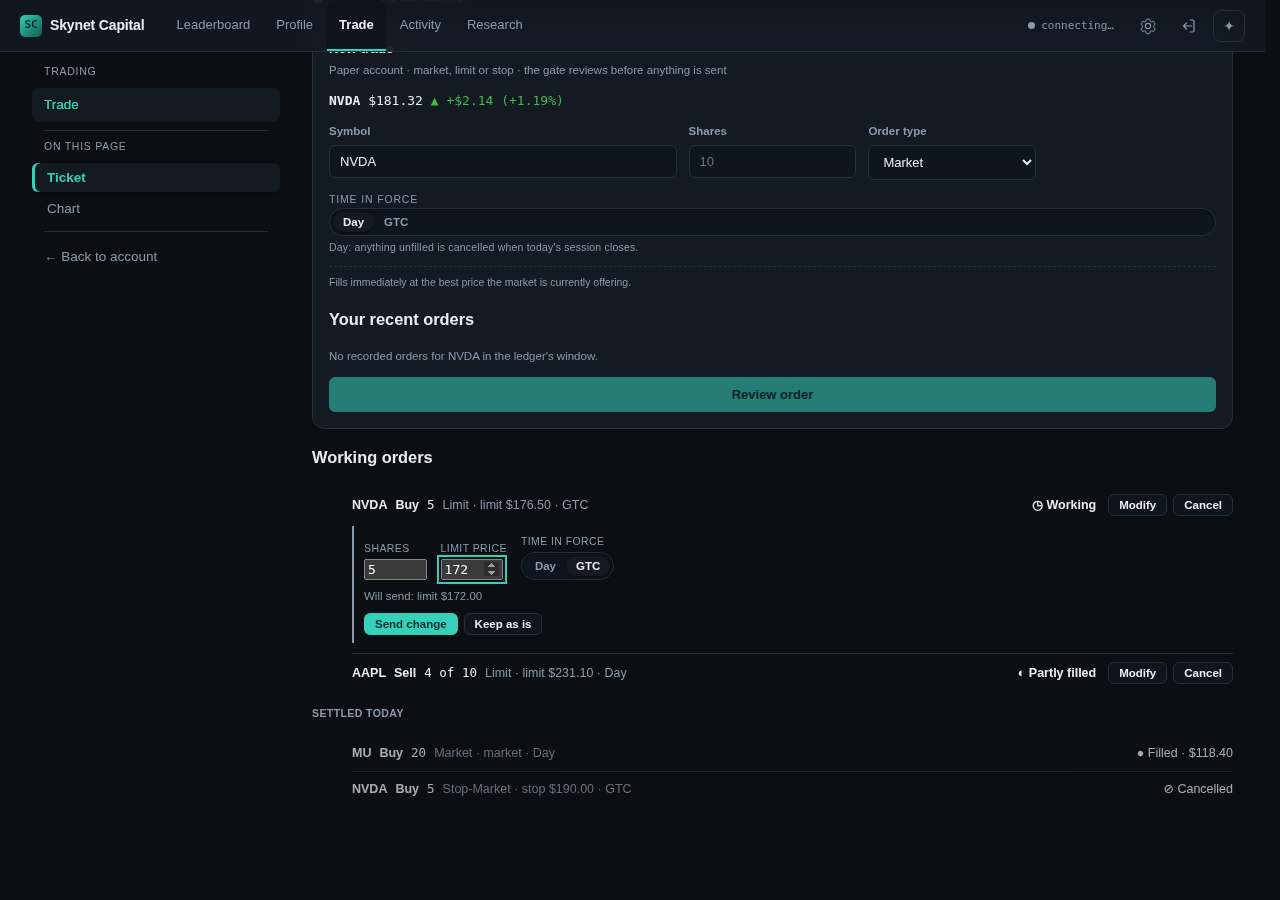
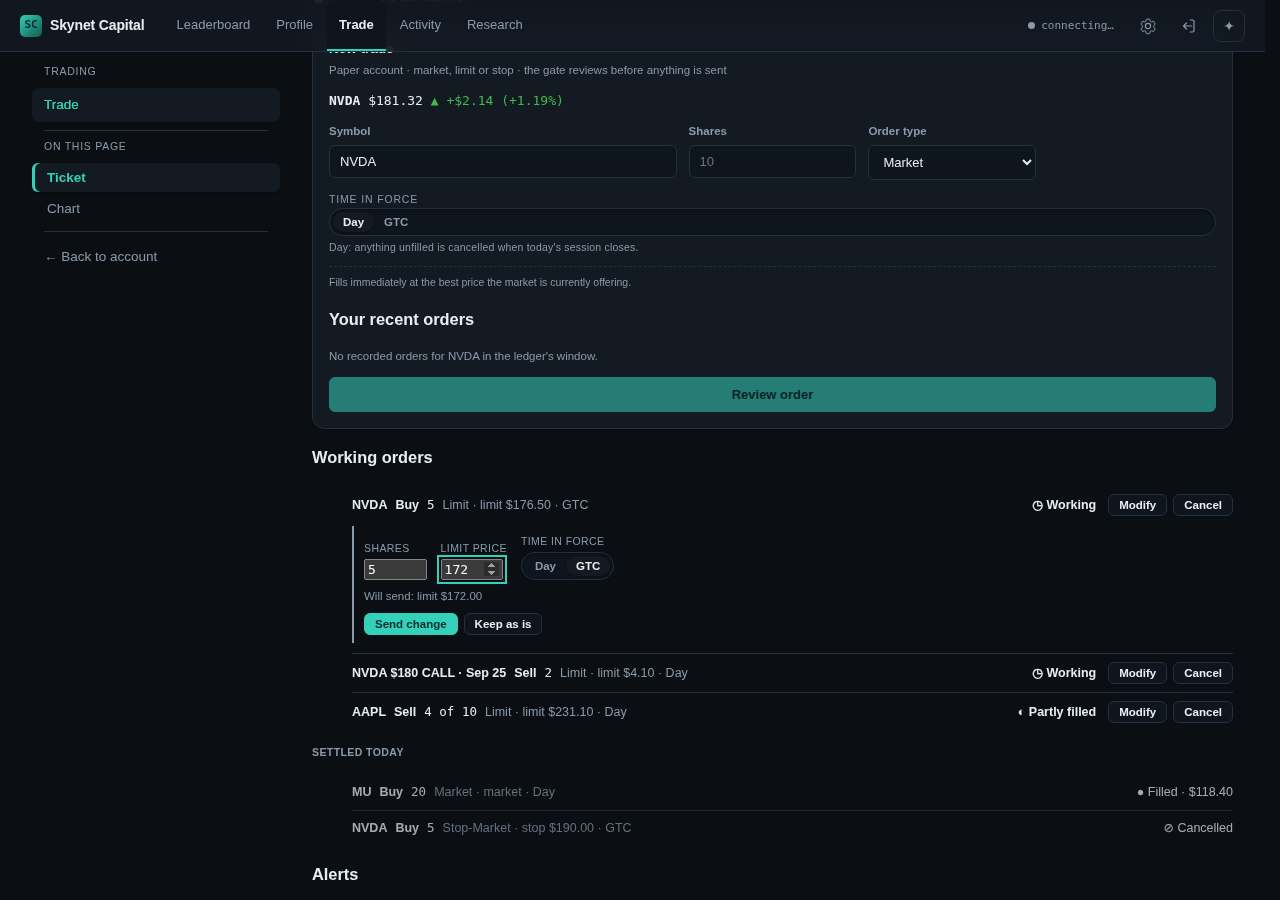
fix(trade): option orders read as contracts on the row and in the modify drawer (#3407) (#3493)
## The picture

```mermaid
flowchart LR
  A[Broker order: NVDA260925C00180000 · qty 2] -->|deskOrderRow| B[display: NVDA $180 CALL · Sep 25 · unit: contracts]
  B --> C[Row: the contract in words]
  B --> D[Modify drawer: Contracts 2 · Limit price 4.10 · Day/GTC]
  D -->|Will send: 3 contracts| E[POST /api/trade/replace]
```

_Caption — an option order in Working orders now reads as what it is;
frames at
`docs/shots/working-orders-modify/working-orders-option-modify-phone.jpg`
and the re-shot `docs/shots/working-orders/` in this PR's Files tab (the
session's write path defangs inline image URLs)._

## Summary

- A working option order shows its contract's human name instead of the
raw OCC symbol.
- Its Modify drawer asks for Contracts, refuses in contracts, and says
"Will send: 3 contracts".
- Review live after deploy: /app/trade → Working orders, with an option
order working → Modify

<details>
<summary><strong>Why, acceptance &amp; the weeds</strong></summary>

### Why

#3458's follow-up. The broker's order record carries the OCC symbol and
a bare quantity; the row printed one and the drawer assumed the other
meant shares. Domain accuracy is a house rule: a contract is a contract.

### Acceptance criteria (EARS)

- When an order's symbol parses as an OCC contract, the row shall carry
its human name and `unit: "contracts"`; a ticker shall stay itself with
`unit: "shares"` — verified: `desk-orders-view.spec.ts` "names an option
order by its contract".
[…]

diff --git a/app/src/shell/working-order-modify.tsx b/app/src/shell/working-order-modify.tsx
@@ -26,6 +26,11 @@ function parseField(text: string): number | undefined | null {
 }
 
 /** The change a form holds against the row it started from — only what differs. */
+/** "Contracts" for an option order, "Shares" otherwise — the word the broker's quantity means. */
+export function unitWord(row: Pick<DeskOrderRow, "unit">): "Contracts" | "Shares" {
+  return row.unit === "contracts" ? "Contracts" : "Shares";
+}
+
 export function orderChange(
   row: DeskOrderRow,
   form: { quantity: string; price: string; timeInForce: TicketTimeInForce | undefined },
@@ -33,7 +38,7 @@ export function orderChange(
   const quantity = parseField(form.quantity);
   const price = parseField(form.price);
   if (quantity === null || (quantity !== undefined && !Number.isInteger(quantity))) {
-    return { change: {}, refusal: "Shares must be a positive whole number." };
+    return { change: {}, refusal: `${unitWord(row)} must be a positive whole number.` };
   }
   if (price === null) return { change: {}, refusal: "The price must be above $0." };
   const priceKey =
@@ -84,7 +89,7 @@ export function ModifyForm({
     <div className="wo-modify" data-order={row.id}>
       <div className="wo-modify-fields">
         <label htmlFor={qtyId}>
-          Shares
+          {unitWord(row)}
           <input
             id={qtyId}
             className="num"
@@ -131,7 +136,9 @@ export function ModifyForm({
       <p className="wo-modify-note">
         {shapeRefusal ??
           refusal ??
-          (unchanged ? "Change shares, the price or the time in force." : changeLine(change))}
+          (unchanged
+            ? `Change ${unitWord(row).toLowerCase()}, the price or the time in force.`
+            : changeLine(change, row))}
       </p>
       <span className="wo-actions">
         <button
@@ -150,10 +157,13 @@ export function ModifyForm({
   );
 }
 
-/** "Will send: 8 shares · limit $172.00 · GTC" — what the broker is about to be told. */
-export function changeLine(change: OrderChange): string {
+/** "Will send: 8 shares · limit $172.00 · GTC" (or "8 contracts" on an option order) — what the
+ *  broker is about to be told. */
+export function changeLine(change: OrderChange, row?: Pick<DeskOrderRow, "unit">): string {
   const parts = [
-    change.quantity !== undefined ? `${change.quantity} shares` : undefined,
+    change.quantity !== undefined
+      ? `${change.quantity} ${row ? unitWord(row).toLowerCase() : "shares"}`
+      : undefined,
     change.limitPrice !== undefined ? `limit $${change.limitPrice.toFixed(2)}` : undefined,
     change.stopPrice !== undefined ? `stop $${change.stopPrice.toFixed(2)}` : undefined,
     change.timeInForce !== undefined ? TIF_LABELS[change.timeInForce] : undefined,

diff --git a/app/tests/shell/working-orders.spec.tsx b/app/tests/shell/working-orders.spec.tsx
@@ -205,4 +205,33 @@ describe("WorkingOrders", () => {
     expect(screen.getAllByRole("button", { name: "Modify" })).toHaveLength(1);
     expect(screen.getByText(/Replaced · now o-9/)).toBeInTheDocument();
   });
+
+  it("shows an option order by its contract name and asks for Contracts, not Shares, in the drawer", async () => {
+    nextOrders = {
+      available: true,
+      asOf: "t",
+      working: [
+        {
+          ...working,
+          id: "o-7",
+          symbol: "NVDA260925C00180000",
+          display: "NVDA $180 CALL · Sep 25",
+          unit: "contracts",
+          quantity: 2,
+          limitPrice: 4.1,
+        },
+      ],
+      recent: [],
+    };
+    nextReplace = { ok: true, orderId: "o-8", replaces: "o-7", status: "pending_replace" };
+    render(withClient(<WorkingOrders deskId="human-eric" />));
+    await waitFor(() => expect(screen.getByText("NVDA $180 CALL · Sep 25")).toBeInTheDocument());
+    fireEvent.click(screen.getByRole("button", { name: "Modify" }));
+    expect(screen.getByLabelText("Contracts")).toBeInTheDocument();
+    expect(screen.queryByLabelText("Shares")).not.toBeInTheDocument();
+    fireEvent.change(screen.getByLabelText("Contracts"), { target: { value: "3" } });
+    expect(screen.getByText("Will send: 3 contracts")).toBeInTheDocument();
+    fireEvent.change(screen.getByLabelText("Contracts"), { target: { value: "1.5" } });
+    expect(screen.getByText("Contracts must be a positive whole number.")).toBeInTheDocument();
+  });
 });

diff --git a/src/server/desk-orders-view.ts b/src/server/desk-orders-view.ts
@@ -1,4 +1,5 @@
 import type { AlpacaOrder } from "../alpaca/alpaca-trading-client.js";
+import { humanizeOptionSymbol, parseOccSymbol } from "../trading/option-symbols.js";
 
 /**
  * THE WORKING-ORDERS VIEW — the broker's order record as the desk's own honest vocabulary
@@ -30,6 +31,11 @@ export type DeskOrderState =
 export interface DeskOrderRow {
   readonly id: string;
   readonly symbol: string;
+  /** The wire symbol in words — an OCC contract as "NVDA $180 CALL · Sep 25", a ticker as itself
+   *  — so a row never asks a member to read `NVDA260925C00180000` (#3407 P1 1b follow-up). */
+  readonly display: string;
+  /** What `quantity` counts: an option order is contracts, a share order is shares. */
+  readonly unit: "shares" | "contracts";
   readonly side: "buy" | "sell";
   /** "market" | "limit" | "stop" | … — the broker's echo, lowercased. */
   readonly orderType: string;
@@ -121,9 +127,12 @@ export function deskOrderRow(order: AlpacaOrder): DeskOrderRow | undefined {
   const stopPrice = num(order.stop_price);
   const avgFillPrice = num(order.filled_avg_price);
   const settledAt = settledStamp(order, state);
+  const contract = parseOccSymbol(order.symbol);
   return {
     id: order.id,
     symbol: order.symbol,
+    display: contract ? humanizeOptionSymbol(order.symbol) : order.symbol,
+    unit: contract ? "contracts" : "shares",
     side: order.side,
     orderType: (order.type ?? "market").toLowerCase(),
     quantity: num(order.qty) ?? 0,

diff --git a/tests/server/desk-orders-view.spec.ts b/tests/server/desk-orders-view.spec.ts
@@ -53,6 +53,18 @@ describe("deskOrderRow — the broker's status alphabet as six honest words", ()
     expect(deskOrderRow(order({ status: "filled", type: "limit" }))?.replaceable).toBe(false);
   });
 
+  it("names an option order by its contract and counts it in contracts; a ticker stays a ticker", () => {
+    const option = deskOrderRow(
+      order({ symbol: "NVDA260925C00180000", type: "limit", status: "accepted" }),
+    );
+    expect(option).toMatchObject({ unit: "contracts" });
+    expect(option?.display).toMatch(/^NVDA \$180 CALL/);
+    expect(deskOrderRow(order({ symbol: "NVDA" }))).toMatchObject({
+      display: "NVDA",
+      unit: "shares",
+    });
+  });
+
   it("carries the broker's id lineage both ways", () => {
     const old = deskOrderRow(order({ status: "replaced", replaced_by: "o-9" }));
     expect(old).toMatchObject({ state: "replaced", replacedBy: "o-9" });

diff --git a/app/src/live/orders.ts b/app/src/live/orders.ts
@@ -19,6 +19,10 @@ export type DeskOrderState =
 export interface DeskOrderRow {
   readonly id: string;
   readonly symbol: string;
+  /** The symbol in words (an option contract's human name); absent on a record that predates it. */
+  readonly display?: string;
+  /** What `quantity` counts — "contracts" for an option order, "shares" otherwise. */
+  readonly unit?: "shares" | "contracts";
   readonly side: "buy" | "sell";
   readonly orderType: string;
   readonly quantity: number;

diff --git a/app/src/shell/working-orders.tsx b/app/src/shell/working-orders.tsx
@@ -139,7 +139,7 @@ function OrderRow({
   return (
     <li className={`wo-row wo-${row.state}`}>
       <span className="wo-main">
-        <span className="wo-sym">{row.symbol}</span>
+        <span className="wo-sym">{row.display ?? row.symbol}</span>
         <span className="wo-side">{row.side === "buy" ? "Buy" : "Sell"}</span>
         <span className="wo-qty num">{qtyLabel(row)}</span>
         <span className="wo-type">

diff --git a/docs/research/trading-parity-2026-09.md b/docs/research/trading-parity-2026-09.md
@@ -717,7 +717,7 @@ plan, not a constraint on the designs.
 | Strategy templates (vertical, condor…) | missing — copy says "a vertical spread is two, an iron condor is four" | `draft-order-builder.tsx:213` |
 | **See open / pending orders** | API built (P1 slice 1) — `GET /api/trade/orders` → working + recent lists; no shell surface yet (the #674 fork decides where) | `src/server/trade-orders-routes.ts`, `src/server/desk-orders-view.ts`, `app/src/live/orders.ts` |
 | **Cancel an order** | API built (P1 slice 1) — `POST /api/trade/cancel` with an audit line; no shell button yet | `src/server/trade-orders-routes.ts` |
-| **Modify / replace an order** | **built** (P1 1b) — Modify on a working limit or stop opens a drawer (shares, price, Day/GTC); only the changed fields go to `POST /api/trade/replace`, which PATCHes the broker, audits the NEW id with `replaces`, and the row reads "changed from" / "Replaced · now" | `src/server/trade-orders-routes.ts`, `app/src/shell/working-order-modify.tsx` |
+| **Modify / replace an order** | **built** (P1 1b) — Modify on a working limit or stop opens a drawer (shares, price, Day/GTC); only the changed fields go to `POST /api/trade/replace`, which PATCHes the broker, audits the NEW id with `replaces`, and the row reads "changed from" / "Replaced · now"; an option order is named by its contract and changed in contracts | `src/server/trade-orders-routes.ts`, `app/src/shell/working-order-modify.tsx` |
 | Pending state in the domain | missing — `OrderStatus` is `filled \| rejected`; the adapter treats *accepted* as filled | `src/domain/types.ts`, `src/adapters/alpaca-broker-adapter.ts` |
 | Order history / fills | exists — durable JSONL ledger, keyset-paginated; broker window 15 | `app/src/shell/activity-table.tsx`, `recent-orders-strip.tsx`, `src/observatory/activity-store.ts` |
 | Live order-status updates | **built** (P4 slice 1) — `/api/trade/events` streams the desk's own fills, submits and cancels off the activity bus; Working orders, the desk snapshot and the positions statement re-read on each frame (60 s poll as the fallback); quotes still poll 15 s, chain never | `src/server/desk-events-route.ts`, `app/src/live/desk-events.ts` |
